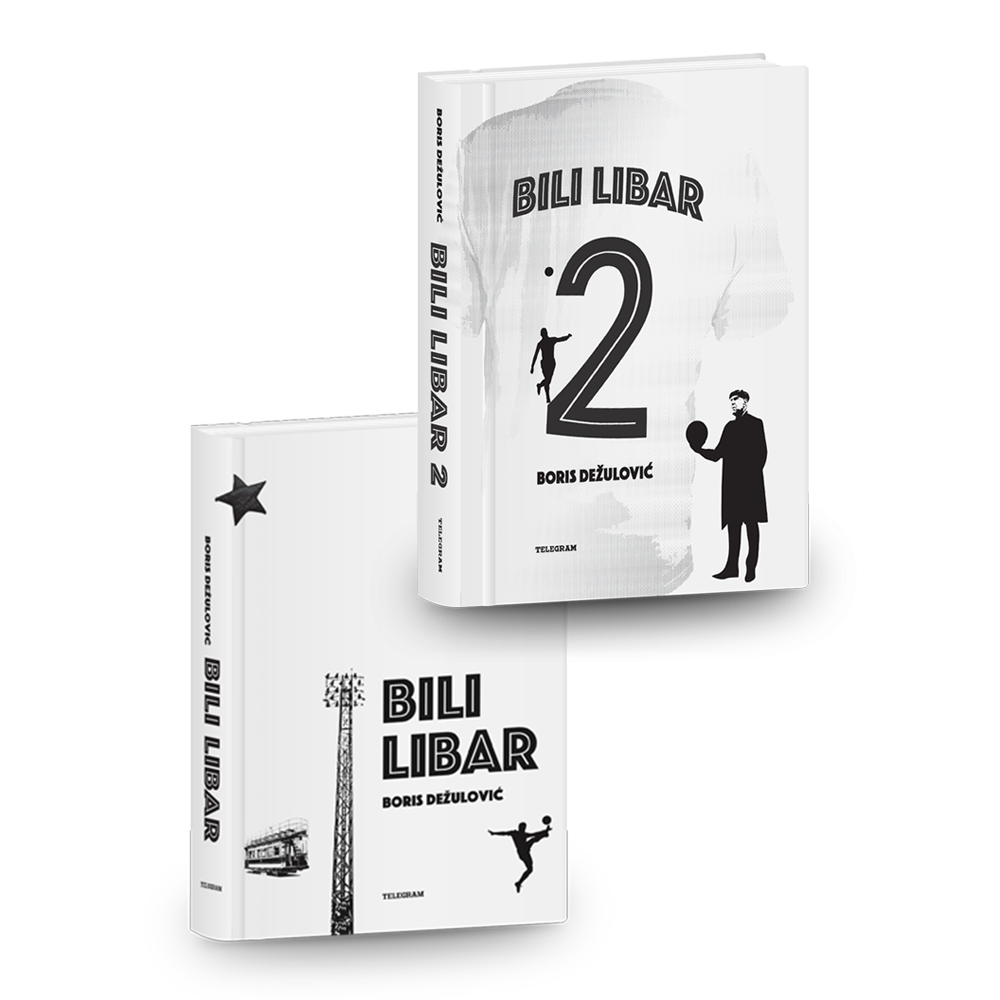
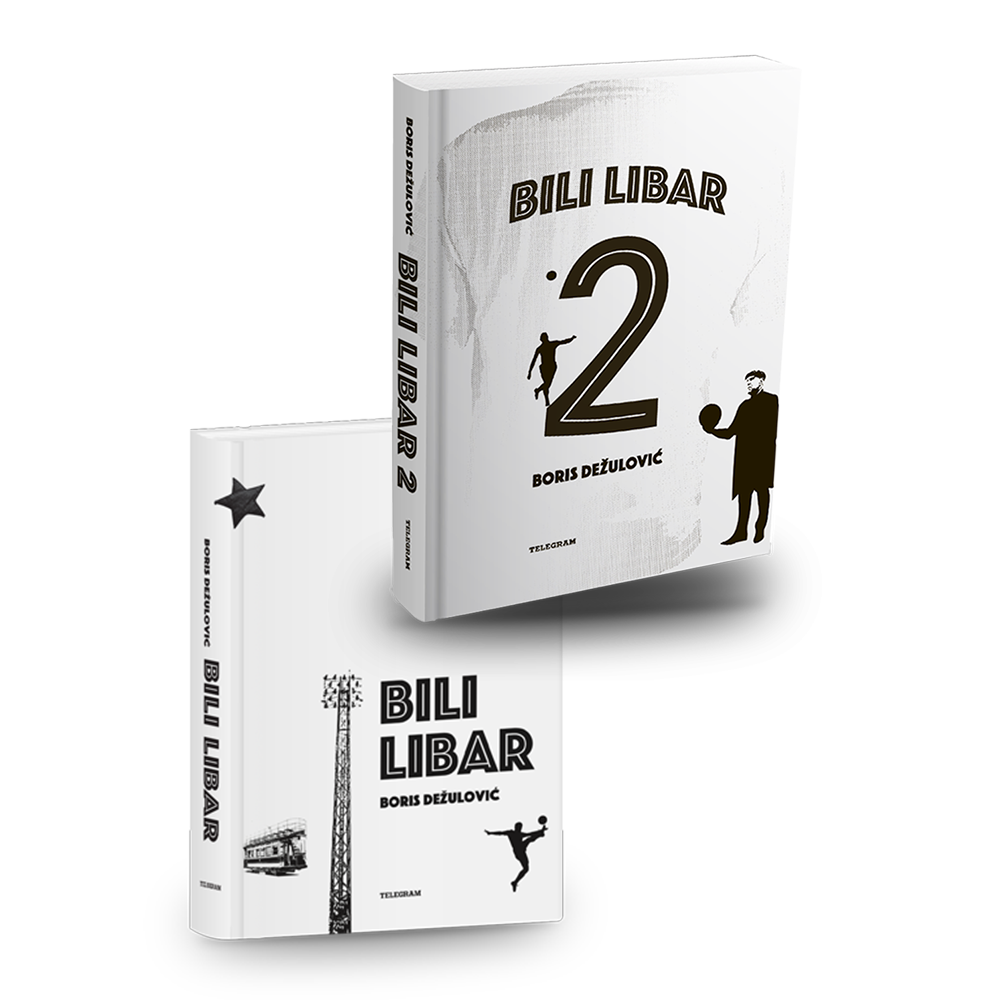
Replace Bili libar 2 cover mockup, decapitalize Depra, add books landing share img

diff --git a/pages/knjiga/index.vue b/pages/knjiga/index.vue
@@ -66,12 +66,12 @@
             <div class="full flex knjiga-cover knjiga-cover-3d">
               <img
                 src="@/assets/img/tg_book_mockup_stankovic.png"
-                alt="Naslovnica nove knjige Aleksandra Stankovića 'DEPRA'"
+                alt="Naslovnica nove knjige Aleksandra Stankovića 'Depra'"
               />
             </div>
             <div class="full flex knjiga-features">
               <div class="full relative center-text big-book-price bold">
-                DEPRA
+                Depra
               </div>
               <div class="nothfour full relative center-text">
                 Aleksandar Stanković
@@ -214,13 +214,13 @@ export default {
           hid: 'description',
           name: 'description',
           content:
-            'Podijelite s nama informacije koje javnost zaslužuje znati.',
+            'Depra Aleksandra Stankovića, Igla, pila, ravnalo Sanje Modrić, Bili libar Borisa Dežulovića, O Zagrebu Zrinke Paladino i Neispričane priče Rajka Grlića.',
         },
         {
           hid: 'og:description',
           property: 'og:description',
           content:
-            'Podijelite s nama informacije koje javnost zaslužuje znati.',
+            'Depra Aleksandra Stankovića, Igla, pila, ravnalo Sanje Modrić, Bili libar Borisa Dežulovića, O Zagrebu Zrinke Paladino i Neispričane priče Rajka Grlića.',
         },
         {
           hid: 'og:type',
@@ -231,6 +231,13 @@ export default {
           hid: 'og:title',
           property: 'og:title',
           content: 'Telegramove hit knjige po posebnoj cijeni za pretplatnike',
+        },
+        {
+          hid: 'og:image',
+          name: 'og:image',
+          property: 'og:image',
+          content:
+            'https://www.telegram.hr/img/tg_naslovna_2023_12_06_book.jpg',
         },
         {
           hid: 'og:url',

diff --git a/pages/knjiga/aleksandar-stankovic-depra.vue b/pages/knjiga/aleksandar-stankovic-depra.vue
@@ -12,7 +12,7 @@
             <div class="full center-text newbook-overtitle">
               Telegram naklada
             </div>
-            <h1 class="full center-text newbook-title">DEPRA</h1>
+            <h1 class="full center-text newbook-title">Depra</h1>
             <div class="full center-text newbook-author">
               Aleksandar Stanković
             </div>
@@ -26,7 +26,7 @@
           <div class="forty tablet-full flex flex-responsive center">
             <img
               src="@/assets/img/tg_book_mockup_stankovic.png"
-              alt="Naslovnica nove knjige Aleksandra Stankovića 'DEPRA'"
+              alt="Naslovnica nove knjige Aleksandra Stankovića 'Depra'"
             />
           </div>
           <div class="fifth tablet-full flex flex-responsive center">
@@ -186,7 +186,7 @@ export default {
   },
   head() {
     return {
-      title: 'Aleksandar Stanković: DEPRA',
+      title: 'Aleksandar Stanković: Depra',
       titleTemplate: '%s | Telegram.hr',
       meta: [
         {
@@ -212,7 +212,7 @@ export default {
           hid: 'og:title',
           name: 'og:title',
           property: 'og:title',
-          content: 'Aleksandar Stanković: DEPRA',
+          content: 'Aleksandar Stanković: Depra',
         },
         {
           hid: 'og:image',
